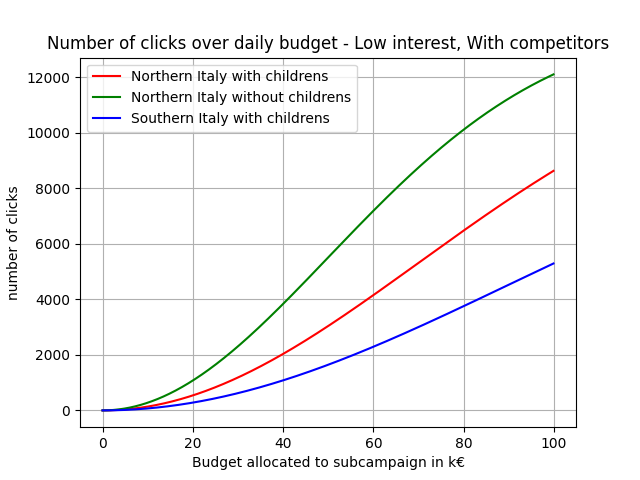
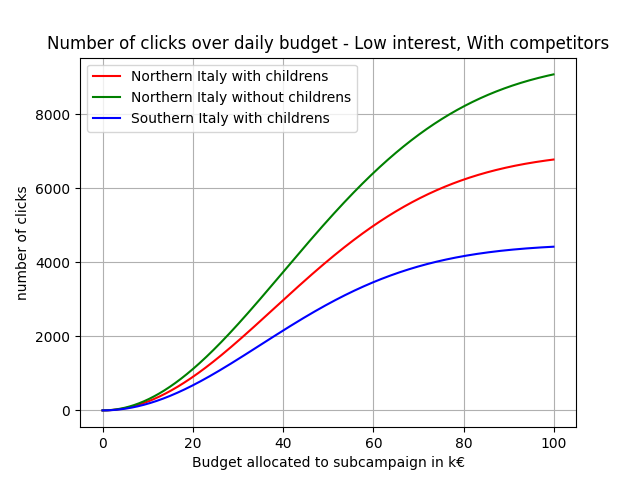
Change prob/clicks function of all phases

diff --git a/utils.py b/utils.py
@@ -1,11 +1,13 @@
 import numpy as np
 
+def hs(x):
+    return np.piecewise(x, [x < 0, x >= 0], [0, 1])
 
 def getClickCurve(phase, userType, x_values):
     if(phase == 0):
         # High interest / No competitors
         if(userType == 0):
-            return 12700 * np.log(x_values/ 27 + 1)
+            return 10900 * np.log(x_values/ 19 + 1)
         elif(userType == 1):
             return 14500 * np.log(x_values/ 20 + 1)
         else:
@@ -13,27 +15,27 @@ def getClickCurve(phase, userType, x_values):
     elif(phase == 1):
         # Low interest / No competitors
         if(userType == 0):
-            return 3150 * np.log(x_values / 7.5 + 1)
+            return 2450 * np.log(x_values / 3.5 + 1) - 15*(x_values - 17)*hs(x_values - 17)
         elif(userType == 1):
-            return 3900 * np.log(x_values / 5 + 1)
+            return 3900 * np.log(x_values / 5 + 1) - 25*(x_values - 17)*hs(x_values - 17)
         else:
-            return 2300 * np.log(x_values / 7.5 + 1)
+            return 2300 * np.log(x_values / 7.5 + 1) - 13*(x_values - 17)*hs(x_values - 17)
     elif (phase == 2):
         # Low interest / With competitors
         if(userType == 0):
-            return -13500 * np.exp(-np.power(x_values- 0, 2.) / (2 * np.power(70, 2.))) + 13500
+            return -7000 * np.exp(-np.power(x_values- 0, 2.) / (2 * np.power(38, 2.))) + 7000
         elif(userType == 1):
-            return -14000 * np.exp(-np.power(x_values- 0, 2.) / (2 * np.power(50, 2.))) + 14000
+            return -9500 * np.exp(-np.power(x_values- 0, 2.) / (2 * np.power(40, 2.))) + 9500
         else:
-            return -11500 * np.exp(-np.power(x_values- 0, 2.) / (2 * np.power(90, 2.))) + 11500
+            return -4500 * np.exp(-np.power(x_values- 0, 2.) / (2 * np.power(35, 2.))) + 4500
     else:
         # High interest / With competitors
         if (userType == 0):
-            return -21500 * np.exp(-np.power(x_values- 0, 2.) / (2 * np.power(55, 2.))) + 21500
+            return -23500 * np.exp(-np.power(x_values- 0, 2.) / (2 * np.power(55, 2.))) + 23500
         elif (userType == 1):
-            return -35000 * np.exp(-np.power(x_values- 0, 2.) / (2 * np.power(65, 2.))) + 35000
+            return -37000 * np.exp(-np.power(x_values- 0, 2.) / (2 * np.power(65, 2.))) + 37000
         else:
-            return -11500 * np.exp(-np.power(x_values- 0, 2.) / (2 * np.power(35, 2.))) + 11500
+            return -12500 * np.exp(-np.power(x_values- 0, 2.) / (2 * np.power(42, 2.))) + 12500
 
 
 def getProbabilities(userType):
